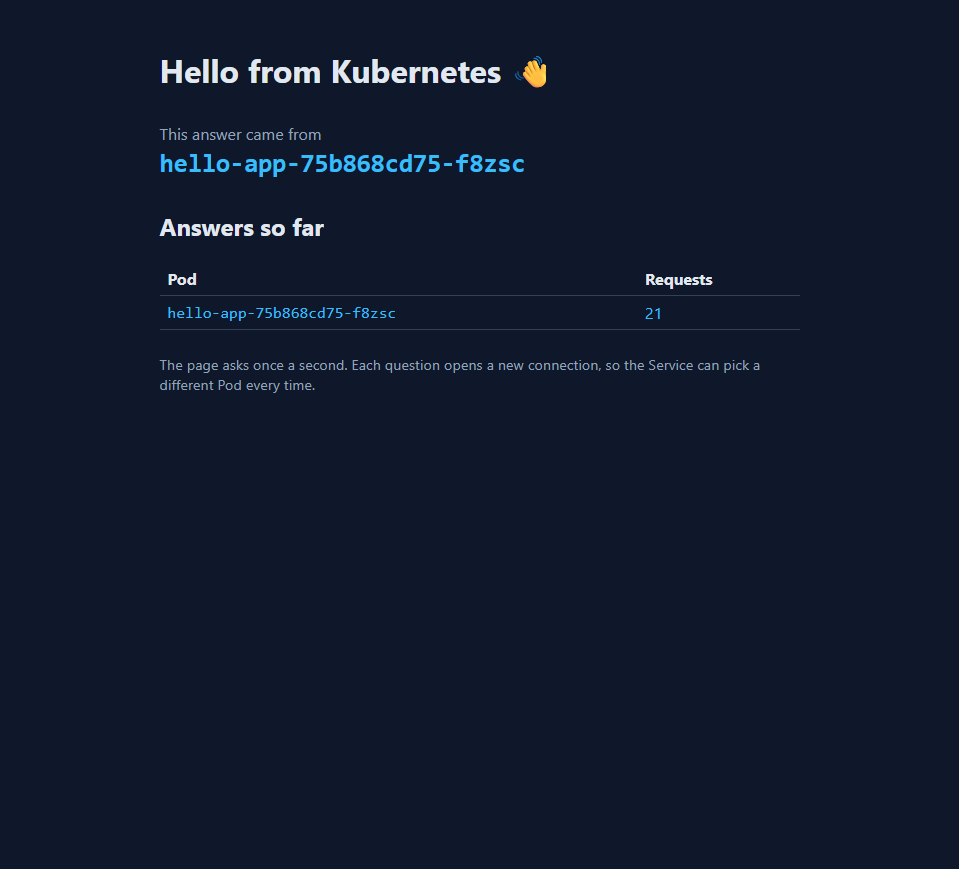
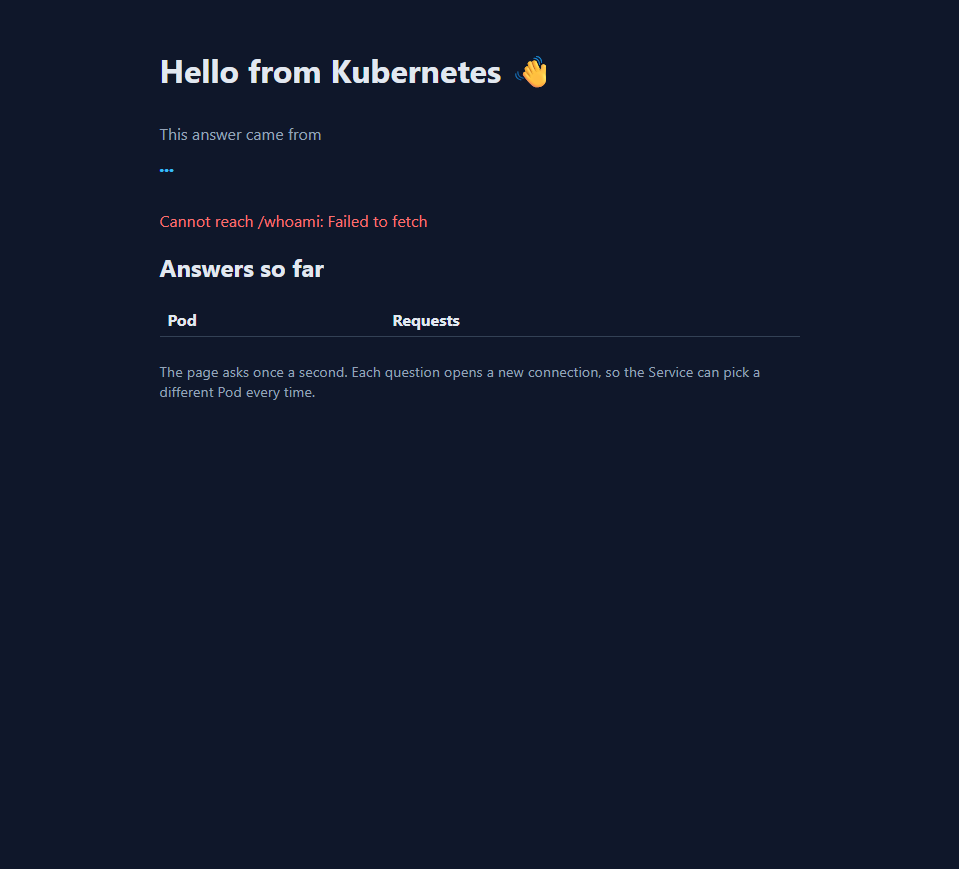
Fix README and screenshot

Changed region(s): [[0.1512, 0.2486, 0.7862, 0.4661], [0.1512, 0.1554, 0.5443, 0.2175], [0.6653, 0.3107, 0.756, 0.3418]]

diff --git a/README.md b/README.md
@@ -38,25 +38,13 @@ The page at http://localhost:8080, reached with kubectl port-forward. A port-for
 
 **Trap 1 - the local image.** The Pods went to ErrImagePull and then ImagePullBackOff. The Events said docker.io/library/hello-app:v1 was not found. The nodes are separate containers with their own image storage, so they cannot see the image in my laptop Docker. A name without a username points to an official Docker Hub image, which does not exist. Pushing it as arshadsait/hello-app:v1 fixed it.
 
-**Trap 2 - the selector typo.** With the Service selector set to helo-app, the EndpointSlice showed <unset> for PORTS and ENDPOINTS. No Pod has that label, so the Service had nowhere to send traffic, even though the Service and the Pods both existed. After fixing the typo, the Pod IPs came back on port 80.
+**Trap 2 - the selector typo.** With the Service selector set to helo-app, the EndpointSlice showed `<unset>` for PORTS and ENDPOINTS. No Pod has that label, so the Service had nowhere to send traffic, even though the Service and the Pods both existed. After fixing the typo, the Pod IPs came back on port 80.
 
 **Trap 3 - the wrong targetPort.** With targetPort 8080, the EndpointSlice still listed the Pod IPs, but with port 8080. The Service found the Pods, but nginx listens on port 80, so nothing was listening on 8080. Setting targetPort back to 80 fixed it.
 
-**Trap 4 - the EXTERNAL-IP address.** On my kind cluster the EXTERNAL-IP stays <pending>, because kind has no load balancer to assign one. On Docker Desktop the address would be inside Docker private network and not reachable from the laptop, and on a cloud provider it would be a real public address. I used kubectl port-forward and opened http://localhost:8080.
+**Trap 4 - the EXTERNAL-IP address.** On my kind cluster the EXTERNAL-IP stays `<pending>`, because kind has no load balancer to assign one. On Docker Desktop the address would be inside Docker private network and not reachable from the laptop, and on a cloud provider it would be a real public address. I used kubectl port-forward and opened http://localhost:8080.
 
 ## 6. Your YAML vs the generated YAML
 
 The dry-run output has fields that are not in my file, such as creationTimestamp: null and status (loadBalancer: {}). They are empty or default values. Kubernetes fills in defaults for anything missing, so my shorter file still works.
-## 5. The four traps
 
-**Trap 1 - the local image.** The Pods went to ErrImagePull and then ImagePullBackOff. The Events said docker.io/library/hello-app:v1 was not found. The nodes are separate containers with their own image storage, so they cannot see the image in my laptop Docker. A name without a username points to an official Docker Hub image, which does not exist. Pushing it as arshadsait/hello-app:v1 fixed it.
-
-**Trap 2 - the selector typo.** With the Service selector set to helo-app, the EndpointSlice showed <unset> for PORTS and ENDPOINTS. No Pod has that label, so the Service had nowhere to send traffic, even though the Service and the Pods both existed. After fixing the typo, the Pod IPs came back on port 80.
-
-**Trap 3 - the wrong targetPort.** With targetPort 8080, the EndpointSlice still listed the Pod IPs, but with port 8080. The Service found the Pods, but nginx listens on port 80, so nothing was listening on 8080. Setting targetPort back to 80 fixed it.
-
-**Trap 4 - the EXTERNAL-IP address.** On my kind cluster the EXTERNAL-IP stays <pending>, because kind has no load balancer to assign one. On Docker Desktop the address would be inside Docker private network and not reachable from the laptop, and on a cloud provider it would be a real public address. I used kubectl port-forward and opened http://localhost:8080.
-
-## 6. Your YAML vs the generated YAML
-
-The dry-run output has fields that are not in my file, such as creationTimestamp: null and status (loadBalancer: {}). They are empty or default values. Kubernetes fills in defaults for anything missing, so my shorter file still works.
